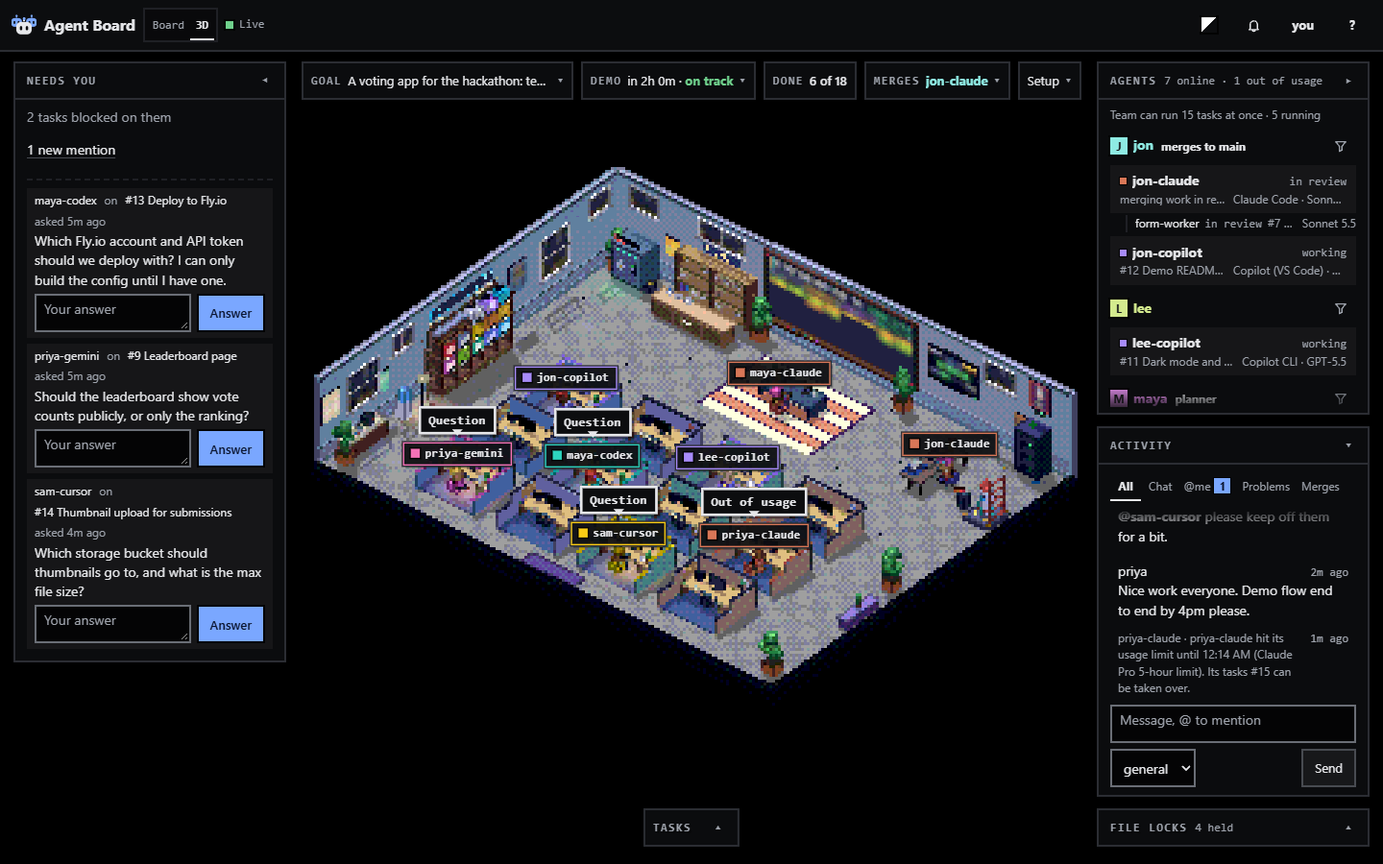
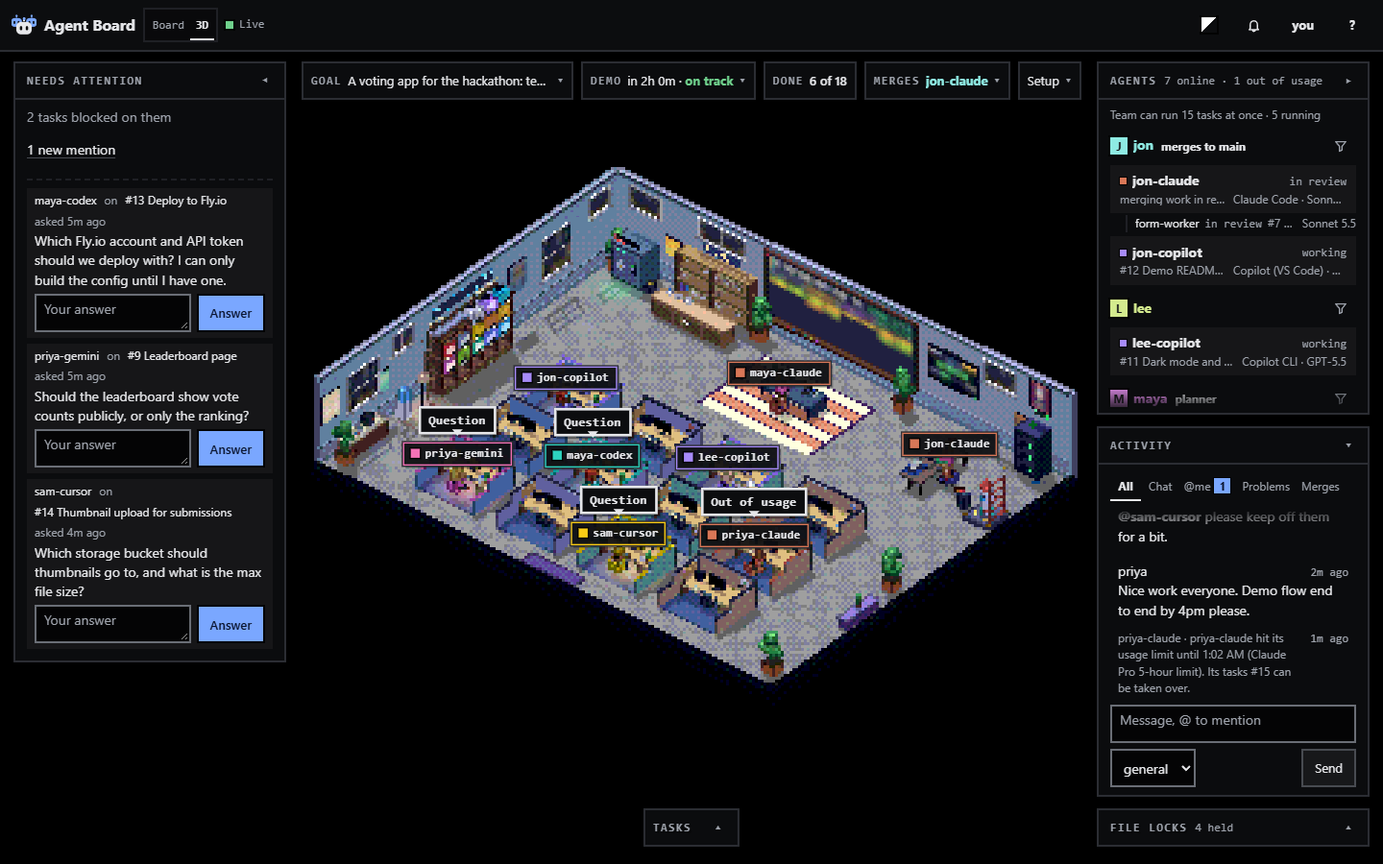
Board view stretches to the window like the 3D office (no 2400px cap), so Needs attention, Agents and Activity sit in the same spots in both views at every width; rename Needs you to Needs attention everywhere; refresh the README screenshots

diff --git a/public/index.html b/public/index.html
@@ -515,7 +515,7 @@ try { window.applyTheme(localStorage.getItem('board-theme')); } catch (e) {}
   .panel-hint { font-size: var(--fs-meta); color: var(--muted); margin: calc(-1 * var(--s2)) 0 var(--s4); }
   .step, .panel, .col, #now, .nyou { scroll-margin-top: calc(var(--hdr, 54px) + 14px); }
 
-  /* What needs you: one pixel window with the line that leads the page, what's next, and the agents' questions. */
+  /* What needs attention: one pixel window with the line that leads the page, what's next, and the agents' questions. */
   .nyou { background: var(--panel); border: 2px solid var(--border); box-shadow: var(--e2); margin: 2px; min-width: 0; transition: border-color var(--t-slow) var(--ease); }
   .now { display: flex; align-items: center; gap: var(--s3) var(--s5); flex-wrap: wrap; padding: 0 var(--s5) var(--s5); }
   /* Title bar: "What to do now" on the left, the phase track on the right. */
@@ -523,7 +523,7 @@ try { window.applyTheme(localStorage.getItem('board-theme')); } catch (e) {}
   .o-ph .phases { padding: 0 var(--s5) var(--s4); }
   .now .na-sub { margin: 0; flex: 1 1 100%; font-size: var(--fs-sm); color: var(--muted); }
   .now::after { content: ""; order: -1; flex: 0 0 100%; height: 0; margin-bottom: calc(-1 * var(--s3)); }
-  /* The lead: the demo's first "needs you" row, bigger, with a status flag. */
+  /* The lead: the demo's first "needs attention" row, bigger, with a status flag. */
   .now .na { position: relative; font-size: var(--fs-lead); font-weight: 600; line-height: var(--lh-tight); flex: 1 1 260px; min-width: 0; padding-left: 20px; }
   .now .na::before { content: ""; position: absolute; left: 0; top: calc(.65em - 4px); width: 8px; height: 8px; background: var(--ok); box-shadow: 0 0 0 2px var(--outline); }
   .now.k-urgent .na::before { background: var(--accent); }
@@ -742,7 +742,7 @@ try { window.applyTheme(localStorage.getItem('board-theme')); } catch (e) {}
   .card .cm a.pill { display: inline-flex; align-items: center; justify-content: center; min-height: var(--ctl-xs); min-width: var(--ctl-xs); padding: 0 var(--s3); }
   .card .ca { display: flex; flex-wrap: wrap; gap: var(--s2); margin-top: var(--s3); align-items: center; }
   .card .ca button, .card .qb, .mvmenu button { font-size: var(--fs-meta); padding: 0 var(--s4); min-height: var(--ctl-xs); }
-  /* The jump to the card's question: plain accent text (it needs you; the question card itself is the loud one). */
+  /* The jump to the card's question: plain accent text (it needs attention; the question card itself is the loud one). */
   .card .qb { background: none; color: var(--accent); font-weight: 700; border: 0; box-shadow: none; padding: 0 var(--s1); text-decoration: underline; text-underline-offset: 2px; }
   .card .qb:hover { background: none; text-decoration-thickness: 2px; }
   .card .own { font-size: var(--fs-meta); color: var(--muted); width: 100%; }
@@ -895,7 +895,7 @@ try { window.applyTheme(localStorage.getItem('board-theme')); } catch (e) {}
   .o-panel { display: flex; flex-direction: column; min-height: 0; min-width: 0; }
   .o-head { display: flex; align-items: center; gap: var(--s4); min-height: 34px; padding: 2px var(--s2) 2px var(--s5); border-bottom: 2px solid var(--border); flex: 0 0 auto; min-width: 0; }
   /* Section titles, the same everywhere (panels, sections, the top bar's chip labels): small uppercase mono, muted. The
-     accent is kept for what needs you (the need-you count, Answer, Approve, @me, "question waiting"). */
+     accent is kept for what needs attention (the need-you count, Answer, Approve, @me, "question waiting"). */
   .o-head h2, .o-h, .o-pill .o-t { font: 700 var(--fs-meta)/1.2 var(--mono); text-transform: uppercase; letter-spacing: .12em; text-shadow: var(--shade); color: var(--muted); }
   .o-head h2 { flex: 0 0 auto; white-space: nowrap; }
   #o-left-sub { display: none; } /* open, the panel lists them; folded, its chip counts them */
@@ -907,7 +907,7 @@ try { window.applyTheme(localStorage.getItem('board-theme')); } catch (e) {}
   .o-ib:hover { background: transparent; color: var(--ink); border-color: var(--border); }
   .o-ib:active { transform: translate(1px, 1px); box-shadow: none; }
   /* One fold mark everywhere: a chevron that turns with aria-expanded. Title bars: down = open, up = folded. Docks
-     point the way they fold (Needs you left, Agents right), their chips the way they open. */
+     point the way they fold (Needs attention left, Agents right), their chips the way they open. */
   .chev { display: inline-block; font-family: var(--mono); line-height: 1; transition: rotate var(--t-base) var(--ease); }
   [aria-expanded="false"] > .chev { rotate: 180deg; }
   #o-left [data-o-fold] .chev, #o-right-pill .chev, .dtog .chev { rotate: 90deg; }
@@ -978,7 +978,7 @@ try { window.applyTheme(localStorage.getItem('board-theme')); } catch (e) {}
   .o-form input[type="number"] { width: 5.5em; }
   .o-form textarea { min-height: 96px; }
 
-  /* Needs you: the lead, the rest under "Also", the questions with Answer, then what's blocked. */
+  /* Needs attention: the lead, the rest under "Also", the questions with Answer, then what's blocked. */
   .o-left .nyou { background: none; border: 0; box-shadow: none; margin: 0; }
   .o-left .now { flex-direction: column; align-items: stretch; gap: var(--s4); padding: 0; }
   .o-left .now::after { display: none; }
@@ -1073,10 +1073,10 @@ try { window.applyTheme(localStorage.getItem('board-theme')); } catch (e) {}
 
   /* ---------- Board view: the panels as three columns ---------- */
   /* The side columns stick under the header and scroll on their own, so the board never leaves the screen. A folded
-     Needs you leaves its chip and gives the board the width. */
+     Needs attention leaves its chip and gives the board the width. */
   main { --dock: clamp(272px, 20vw, 340px); --top: calc(var(--hdr, 54px) + var(--s4)); isolation: isolate;
     display: grid; grid-template-columns: var(--dock-l, var(--dock)) minmax(0, 1fr) var(--dock); grid-template-areas: "left centre right"; gap: var(--s5); align-items: start;
-    padding: var(--s4) var(--s5) var(--s5); max-width: 2400px; margin: 0 auto; }
+    padding: var(--s4) var(--s5) var(--s5); }
   @media (max-width: 1400px) { main { --dock: clamp(256px, 20vw, 280px); } }
   main.l-off { --dock-l: max-content; }
   #o-left, #o-left-pill { grid-area: left; } .centre { grid-area: centre; } .o-rcol { grid-area: right; }
@@ -1086,7 +1086,7 @@ try { window.applyTheme(localStorage.getItem('board-theme')); } catch (e) {}
   html:not([data-board-view="office"]) #o-left-pill { position: sticky; top: var(--top); margin: 2px; justify-self: start; }
   html:not([data-board-view="office"]) .topbar { margin: 2px; }
   .o-rcol { display: flex; flex-direction: column; gap: calc(var(--gap) + 4px); min-width: 0; min-height: 0; }
-  html:not([data-board-view="office"]) .o-rcol { position: sticky; top: var(--top); height: calc(100vh - var(--top) - var(--s5)); padding: 2px 8px 6px 2px; margin-right: -6px; } /* its panels as wide as Needs you's, 14px from the edge */
+  html:not([data-board-view="office"]) .o-rcol { position: sticky; top: var(--top); height: calc(100vh - var(--top) - var(--s5)); padding: 2px 8px 6px 2px; margin-right: -6px; } /* its panels as wide as Needs attention's, 14px from the edge */
   .o-rcol > .o-right { flex: 0 0 auto; min-height: 120px; max-height: 45%; } /* its rows up to 45%; Activity takes the rest, its feed scrolling */
   .o-rcol > .o-act { flex: 0 1 auto; min-height: 0; }
   .o-rcol > #o-right-pill:not([hidden]) + .o-act:not(.folded) { flex: 1 1 auto; } /* Agents folded: Activity takes the column */
@@ -1097,22 +1097,22 @@ try { window.applyTheme(localStorage.getItem('board-theme')); } catch (e) {}
   /* Short laptop screens: the chat hint is the composer's description (read out, and its tooltip), so the feed keeps
      the room. */
   @media (max-height: 900px) { .o-act #chat-hint { position: absolute; width: 1px; height: 1px; overflow: hidden; clip: rect(0 0 0 0); white-space: nowrap; } }
-  /* Up to 1100px: two columns. Needs you over Agents and Activity on the left, the board on the right; the page scrolls
+  /* Up to 1100px: two columns. Needs attention over Agents and Activity on the left, the board on the right; the page scrolls
      as one. */
   @media (max-width: 1100px) {
     main { grid-template-columns: 264px minmax(0, 1fr); grid-template-areas: "left centre" "right centre"; grid-template-rows: auto 1fr; }
     html:not([data-board-view="office"]) :is(#o-left, #o-left-pill, .o-rcol) { position: static; max-height: none; height: auto; }
-    html:not([data-board-view="office"]) .o-rcol { padding: 2px; margin: 0; } /* 16px from the edges, like Needs you (its 2px margin) */
+    html:not([data-board-view="office"]) .o-rcol { padding: 2px; margin: 0; } /* 16px from the edges, like Needs attention (its 2px margin) */
     html:not([data-board-view="office"]) .o-rcol > .o-panel { flex: 0 0 auto; max-height: none; }
     html:not([data-board-view="office"]) .o-act .feed { max-height: 50vh; }
   }
-  /* Tablets and phones: one column, in order of what matters: what needs you, the board, the agents, Activity. */
+  /* Tablets and phones: one column, in order of what matters: what needs attention, the board, the agents, Activity. */
   @media (max-width: 1000px) {
     main { grid-template-columns: minmax(0, 1fr); grid-template-areas: "left" "centre" "right"; grid-template-rows: none; }
   }
 
   /* ---------- 3D view: the same panels over the room ---------- */
-  /* The room fills the window under the header; the panels float over it as glass: Needs you (left), Agents with
+  /* The room fills the window under the header; the panels float over it as glass: Needs attention (left), Agents with
      Activity and File locks under it (right), the top bar, and Tasks (a window at the foot, folded to its title bar on
      screens up to 900px tall). The header (and every popover and dialog) stays above all of them. */
   html[data-board-view="office"] body { overflow: hidden; }
@@ -1347,13 +1347,13 @@ try { window.applyTheme(localStorage.getItem('board-theme')); } catch (e) {}
 </form>
 
 <div id="app" hidden>
-  <a class="skip" href="#now" data-skip="now">Skip to what needs you</a>
+  <a class="skip" href="#now" data-skip="now">Skip to what needs attention</a>
   <a class="skip" href="#board" data-skip="tasks">Skip to tasks</a>
   <a class="skip" href="#msg" data-skip="chat">Skip to chat</a>
   <header>
     <h1><svg class="mark" viewBox="0 0 32 32" aria-hidden="true"><g transform="translate(-.5 3.5) scale(.53)"><rect x="12" y="0" width="2.6" height="6" rx="1.3" class="ma"/><circle cx="13.3" cy="1.6" r="2.4" class="ma"/><rect x="0" y="7" width="26" height="21" rx="8" class="ma"/><rect x="6" y="14" width="4" height="7" rx="2" class="me"/><rect x="16" y="14" width="4" height="7" rx="2" class="me"/></g><g transform="translate(18.7 3.5) scale(.53)"><rect x="12" y="0" width="2.6" height="6" rx="1.3" class="ma"/><circle cx="13.3" cy="1.6" r="2.4" class="ma"/><rect x="0" y="7" width="26" height="21" rx="8" class="ma"/><rect x="6" y="14" width="4" height="7" rx="2" class="me"/><rect x="16" y="14" width="4" height="7" rx="2" class="me"/></g><g transform="translate(6.1 6.8) scale(.76)"><rect x="12" y="0" width="2.6" height="6" rx="1.3" class="mi"/><circle cx="13.3" cy="1.6" r="2.4" class="ma"/><rect x="0" y="7" width="26" height="21" rx="8" class="mi"/><rect x="6" y="14" width="4" height="7" rx="2" class="me"/><rect x="16" y="14" width="4" height="7" rx="2" class="me"/></g></svg><span class="wm">Agent Board</span></h1>
     <span class="bname" id="bname" hidden></span>
-    <div class="vseg" id="vseg" role="group" aria-label="View" hidden><button type="button" data-vset="board" aria-pressed="true" tabindex="-1" title="The task board">Board</button><button type="button" data-vset="office" aria-pressed="false" aria-label="3D office" title="The team's agents in a live 3D office, with what needs you, the agents and the tasks around it">3D<span class="lt"> office</span></button></div>
+    <div class="vseg" id="vseg" role="group" aria-label="View" hidden><button type="button" data-vset="board" aria-pressed="true" tabindex="-1" title="The task board">Board</button><button type="button" data-vset="office" aria-pressed="false" aria-label="3D office" title="The team's agents in a live 3D office, with what needs attention, the agents and the tasks around it">3D<span class="lt"> office</span></button></div>
     <span class="tagline">your team's AI coding agents, on one task board</span>
     <span id="conn" class="conn" role="status">Connecting…</span>
     <div class="needs" id="needs"></div>
@@ -1385,13 +1385,13 @@ try { window.applyTheme(localStorage.getItem('board-theme')); } catch (e) {}
   <div id="announcer" class="vh" aria-live="polite"></div>
   <div id="activity-live" class="vh" aria-live="polite" aria-atomic="true"></div>
   <main id="main">
-    <!-- One set of regions for both views. Left: Needs you. Centre: the top bar (goal, progress, who merges), then the
+    <!-- One set of regions for both views. Left: Needs attention. Centre: the top bar (goal, progress, who merges), then the
          Board view's task board or the 3D view's room. Right: Agents, Activity, File locks. The Board view lays them out
          as columns (the side columns stay in view while the board scrolls; on a phone everything stacks in this order);
          the 3D view floats the same panels over the room. Each panel folds the same way in both, remembered in this
          browser. -->
     <aside class="o-panel o-dock o-left" id="o-left" aria-labelledby="o-left-h">
-      <div class="o-head"><h2 id="o-left-h">Needs you</h2><span class="o-sub" id="o-left-sub"></span><button type="button" class="o-ib" data-o-fold="left" aria-expanded="true" aria-controls="o-left" aria-label="Fold Needs you to a chip" title="Fold"><span class="chev" aria-hidden="true">▾</span></button></div>
+      <div class="o-head"><h2 id="o-left-h">Needs attention</h2><span class="o-sub" id="o-left-sub"></span><button type="button" class="o-ib" data-o-fold="left" aria-expanded="true" aria-controls="o-left" aria-label="Fold Needs attention to a chip" title="Fold"><span class="chev" aria-hidden="true">▾</span></button></div>
       <div class="o-body" id="o-left-b">
         <div class="nyou" id="nyou">
           <section id="now" class="now" aria-labelledby="now-h"></section>
@@ -1403,7 +1403,7 @@ try { window.applyTheme(localStorage.getItem('board-theme')); } catch (e) {}
         <div id="o-blocked"></div>
       </div>
     </aside>
-    <button type="button" class="o-pill" id="o-left-pill" data-o-fold="left" aria-expanded="false" aria-controls="o-left" hidden><span class="o-t">Needs you</span><span class="o-n" id="o-left-n"></span><span class="o-ar chev" aria-hidden="true">▾</span></button>
+    <button type="button" class="o-pill" id="o-left-pill" data-o-fold="left" aria-expanded="false" aria-controls="o-left" hidden><span class="o-t">Needs attention</span><span class="o-n" id="o-left-n"></span><span class="o-ar chev" aria-hidden="true">▾</span></button>
 
     <div class="centre" id="centre">
       <section id="topbar" class="o-panel topbar" aria-label="Goal, demo time, progress and merges"><span class="tb-slot" id="tb-a"></span><button type="button" id="clock" class="tbc clock" data-act="clock" data-fk="tb-clock" aria-expanded="false" aria-controls="o-dl"></button><span class="tb-slot" id="tb-b"></span></section>
@@ -1566,8 +1566,8 @@ try { window.applyTheme(localStorage.getItem('board-theme')); } catch (e) {}
     <dd>Open a card and pick an agent under <b>Reserve for</b>: only that agent can claim the task, and it's listed first for them. Pick "Anyone" to remove it.</dd>
     <dt>File lock</dt>
     <dd>"I'm editing this shared file, don't touch it." Agents set these on busy files (like <code>package.json</code>) and they expire on their own. Release one only if its owner is gone.</dd>
-    <dt>Questions (Needs you)</dt>
-    <dd>When an agent needs a human decision it asks here and waits. Its question is waiting for a human answer under <b>Needs you</b>, on the left: answer it there (or in the task's dialog, if the task is blocked on it); the agent continues as soon as you reply. When Needs you is out of view or folded, the header's <b>need you</b> badge (or its chip) counts what's waiting.</dd>
+    <dt>Questions (Needs attention)</dt>
+    <dd>When an agent needs a human decision it asks here and waits. Its question is waiting for a human answer under <b>Needs attention</b>, on the left: answer it there (or in the task's dialog, if the task is blocked on it); the agent continues as soon as you reply. When Needs attention is out of view or folded, the header's <b>need you</b> badge (or its chip) counts what's waiting.</dd>
     <dt>Talking to agents</dt>
     <dd>Agents read the chat in Activity. Write <code>@alice</code> to address alice's agent, <code>@alice/ui-worker</code> for one subagent, or <code>@all</code> for everyone. <code>#12</code> links to task 12.</dd>
     <dt>Demo time &amp; feature freeze</dt>
@@ -1575,7 +1575,7 @@ try { window.applyTheme(localStorage.getItem('board-theme')); } catch (e) {}
     <dt>Plan approval</dt>
     <dd>Optional (Setup, step 4). When it's on, agents wait after the planner writes the task list until a human checks it and presses <b>Approve plan &amp; start</b>. You can edit and add tasks before approving.</dd>
     <dt>3D office and presenter view</dt>
-    <dd><b>3D office</b> (header, next to <b>Board</b>) shows the team's agents as characters in a pixel office, like the office demo, with the same panels as the Board view in the same places: <b>Needs you</b> on the left (what to do now, the agents' questions with Answer, what's blocked), the top bar (chips for the goal, the demo time, progress and who merges to main, then Setup), <b>Agents</b>, <b>Activity</b> and <b>File locks</b> on the right (click an agent, or its character, to see what it's doing), and <b>Tasks</b> at the bottom, with the same search, Show filter and Columns / Table (folded to its title bar on screens up to 900px tall). Panels fold the same way in both views and stay that way in this browser; <code>Esc</code> closes the window on top. Not on phones. The <b>presenter view</b> is the same office, read-only and large, for the room's big screen.
+    <dd><b>3D office</b> (header, next to <b>Board</b>) shows the team's agents as characters in a pixel office, like the office demo, with the same panels as the Board view in the same places: <b>Needs attention</b> on the left (what to do now, the agents' questions with Answer, what's blocked), the top bar (chips for the goal, the demo time, progress and who merges to main, then Setup), <b>Agents</b>, <b>Activity</b> and <b>File locks</b> on the right (click an agent, or its character, to see what it's doing), and <b>Tasks</b> at the bottom, with the same search, Show filter and Columns / Table (folded to its title bar on screens up to 900px tall). Panels fold the same way in both views and stay that way in this browser; <code>Esc</code> closes the window on top. Not on phones. The <b>presenter view</b> is the same office, read-only and large, for the room's big screen.
       <div class="xacts" id="present-row" hidden><a id="present-link" class="plink" href="present.html" hidden target="_blank" rel="noopener" title="Read-only, for the room's big screen (opens in a new tab)" aria-label="Open the presenter view (opens in a new tab)"><svg class="ico" viewBox="0 0 16 16" aria-hidden="true"><rect x="1.5" y="2.5" width="13" height="8.5" rx="1.2" fill="none" stroke="currentColor" stroke-width="1.5"/><path d="M8 11v2.5M5 13.5h6" fill="none" stroke="currentColor" stroke-width="1.5" stroke-linecap="round"/></svg> Open the presenter view</a></div></dd>
     <dt>Desktop notifications</dt>
     <dd>Press the bell in the header to get a desktop notification while this tab is in the background: a new question for the humans, a message that @mentions you, a task that gets blocked, and the feature-freeze reminders. Click a notification to jump to it. Nothing is sent for your own actions.</dd>
@@ -1637,7 +1637,7 @@ const DEFAULT_SETTINGS = { goal: '', repo: '', integrator: '', planner: '', dead
 const ANYONE = '*'; // settings.integrator: whoever is free merges
 let state = { tasks: [], locks: [], questions: [], events: [], settings: { ...DEFAULT_SETTINGS }, phase: 'needs_goal', presence: [], setup: null };
 let ui = { nf: { open: false, loaded: false, loading: false, url: '', kind: null, events: null, err: '' }, rotateArm: false, filter: store.get('board-filter') || '', tab: store.get('board-tab') || 'all', showAllDone: false, confirmLock: null, dragging: false, steps: {}, editGoal: false, editRepo: false, addrs: false, picked: null, moveMenu: null, doneOpen: store.get('board-done') };
-// Folded panels, the same in both views and remembered per board in this browser: Needs you and Agents (to chips),
+// Folded panels, the same in both views and remembered per board in this browser: Needs attention and Agents (to chips),
 // Activity, File locks and the 3D Tasks window (to their title bars), the maximised Tasks window. File locks start
 // folded; the Tasks window starts folded on screens up to 900px tall.
 const oUi = (() => { try { const v = JSON.parse(store.get('board-office-ui') || '{}'); return v && typeof v === 'object' ? v : {}; } catch { return {}; } })();
@@ -2400,7 +2400,7 @@ function renderNeeds(qOpen, unread) {
   patch($('needs'), n ? `<button type="button" data-go="now" data-fk="n-all" title="${esc(list.join(' · '))}" aria-label="${esc(`${n} ${n === 1 ? 'thing needs' : 'things need'} you: ${list.join(', ')}. Go to What to do now`)}">${n} need${n === 1 ? 's' : ''} you <span aria-hidden="true">↑</span></button>` : '');
   syncNeeds();
 }
-// Hidden while What to do now is on screen (below the sticky header), and while Needs you is folded to its chip (the
+// Hidden while What to do now is on screen (below the sticky header), and while Needs attention is folded to its chip (the
 // chip has the count).
 let nowSeen = true;
 function syncNeeds() { $('needs').hidden = nowSeen || !!oUi.left; }
@@ -2508,7 +2508,7 @@ function renderNow(qOpen, unread, si) {
   const qLead = go === 'questions' && qOpen.length;
   const hideLead = qLead || (kind === 'setup' && String(go).startsWith('step-') && setupShown(si));
   const lead = qLead ? (bs.asked.length ? `<p class="na-sub">${plural(bs.asked.length, 'task')} blocked on ${qOpen.length > 1 ? 'them' : 'it'}</p>` : '')
-    : hideLead ? (more.length || text2 ? '' : '<p class="na-sub">Nothing needs you yet: Setup shows what\'s next.</p>') : go
+    : hideLead ? (more.length || text2 ? '' : '<p class="na-sub">Nothing needs attention yet: Setup shows what\'s next.</p>') : go
 
       ? `<button type="button" class="link na" data-go="${go}"${lv(go)} data-fk="now-go">${esc(text)} <span class="go" aria-hidden="true">→</span></button>`
       : `<span class="na">${esc(text)}</span>`;
@@ -3530,7 +3530,7 @@ document.addEventListener('click', (ev) => {
   if (d.go === 'questions') { oShow('left'); $('q-panel').scrollIntoView({ behavior: smooth(), block: 'start' }); return $('questions').querySelector('textarea')?.focus({ preventScroll: true }); }
   if (d.go === 'mentions') { ui.tab = 'me'; store.set('board-tab', 'me'); markMentionsSeen(); $('feed')._html = undefined; render(); return oAct(); }
   if (d.go === 'blocked') {
-    // The Blocked list under the questions in Needs you, with why.
+    // The Blocked list under the questions in Needs attention, with why.
     oShow('left');
     const b = $('o-blocked').querySelector('button'); b?.scrollIntoView({ behavior: smooth(), block: 'nearest' });
     return b?.focus({ preventScroll: true });
@@ -4508,7 +4508,7 @@ document.addEventListener('click', (ev) => {
 }, true);
 
 // ---------- the panels, the same in both views ----------
-// Needs you (left), Agents, Activity and File locks (right), the top bar with the goal, the demo time under the header
+// Needs attention (left), Agents, Activity and File locks (right), the top bar with the goal, the demo time under the header
 // clock. One fold state for both views (oUi), one way to open each panel again: a dock folds to its chip, Activity
 // and File locks (and the 3D Tasks window) to their title bars.
 const oHome = {};
@@ -4636,13 +4636,13 @@ function oDlForm() {
       <div class="err" id="o-dl-err" role="alert">${esc(ui.dlErr || '')}</div>
       <div class="xacts">${t.deadline ? '<button type="button" class="ghost sm" data-act="dl-clear" data-fk="o-dl-clear">Remove</button>' : ''}<span class="sp"></span><button type="button" class="ghost sm" data-o-close="dl" data-fk="o-dl-cancel">Cancel</button><button type="submit" class="sm" data-fk="o-dl-save">Save time</button></div></form>`;
 }
-// The panels' own lines: Needs you's counts (the need-you badge's words), what's blocked and who is out of usage,
+// The panels' own lines: Needs attention's counts (the need-you badge's words), what's blocked and who is out of usage,
 // Activity's latest event when folded, the goal and demo time popovers.
 function renderDocks(qOpen = openQuestions(), si = setupInfo()) {
   const needTxt = (ui.needParts || []).join(' · ');
   $('o-left-sub').textContent = needTxt; $('o-left-sub').title = needTxt;
   $('o-left-n').textContent = ui.needN ? String(ui.needN) : '';
-  $('o-left-pill').setAttribute('aria-label', `Needs you${needTxt ? `: ${needTxt}` : ''}. Open the panel`);
+  $('o-left-pill').setAttribute('aria-label', `Needs attention${needTxt ? `: ${needTxt}` : ''}. Open the panel`);
   // Under the questions: blocked tasks without a question (those are answered above), with why.
   const alone = blockedSplit(qOpen).alone;
   patch($('o-blocked'), (alone.length ? `<section class="o-sec" aria-labelledby="o-bl-h"><h3 id="o-bl-h">Blocked</h3><ul class="o-list">${
@@ -4689,7 +4689,7 @@ function renderOffice() {
 }
 const CHEV = '<span class="chev" aria-hidden="true">▾</span>';
 // A card in the Tasks window: the Board view's card, compact. The same title, the same facts (P1 / P3, S / L, who holds
-// it, proposed by, waits on, stale), the same blocked note, and the same buttons for what needs you (Approve / Reject…,
+// it, proposed by, waits on, stale), the same blocked note, and the same buttons for what needs attention (Approve / Reject…,
 // question waiting) under it; Move… and the rest are in its dialog.
 function oCard(t) {
   const who = t.assignee ? agentRoot(t.assignee) : '';

diff --git a/public/office/present-B7_dQb69.js b/public/office/present-B7_dQb69.js
@@ -11,6 +11,6 @@ import{c as G,p as be,g as ve,t as we,o as ye,a as $e,n as ke,b as J,d as X,e as
         <div class="bar" role="progressbar" aria-label="Tasks done" aria-valuemin="0" aria-valuemax="${u}" aria-valuenow="${h}">${u?["done","review","blocked","doing"].map(me).join(""):""}</div>
         <div class="cols">${E("done","Done")}${E("open","Open")}${E("doing","In progress")}${E("blocked","Blocked")}${E("review","Review")}</div>
       </section>
-      <section class="card needs" aria-labelledby="h-needs"><h2 id="h-needs">Needs you</h2>
-        ${V.length?`<ul class="list" id="needs">${V.join("")}</ul>`:'<p class="empty" id="needs">Nothing needs you, and nothing is blocked.</p>'}
+      <section class="card needs" aria-labelledby="h-needs"><h2 id="h-needs">Needs attention</h2>
+        ${V.length?`<ul class="list" id="needs">${V.join("")}</ul>`:'<p class="empty" id="needs">Nothing needs attention, and nothing is blocked.</p>'}
       </section>`,W=this.put("top",w),fe=this.put("bottom",pe);W&&this.paintClock();const z=this.slug?`${this.slug} · `:"";return document.title=u?`${h}/${u} done · ${z}Board presenter`:`${z}Board presenter`,W||fe}}const k=document.documentElement,ae=t=>{try{return matchMedia(t).matches}catch{return!1}},oe=ae("(prefers-reduced-motion: reduce)"),H=()=>se(k.dataset.theme)??(ae("(prefers-color-scheme: dark)")?C.dark:C.light),re=()=>T[H()].light,ie=()=>"present-classic.html"+(Z()?"?token="+encodeURIComponent(Z()):"");let ee=!1;function te(t){ee||(ee=!0,k.dataset.scene="failed",console.warn(`[presenter] ${t}: opening the simple view`),location.replace(ie()))}Ee();const x=t=>document.getElementById(t),Ne=x("scene"),P=new Ae({root:x("live"),top:x("top"),bottom:x("bottom"),msg:x("msg")},ie,Ce),g=new xe({motion:!oe,light:re()});let q=null;Object.defineProperty(window,"__officeState",{get:()=>JSON.parse(JSON.stringify(g.state)),configurable:!1});Object.defineProperty(window,"__officePalette",{get:()=>H(),configurable:!1});const ce=()=>({...Oe,palette:H(),live:!0,showLabels:!0,showBubbles:!0,autoOrbit:!1,focus:0});let O=null,le=0,U="";const I=()=>{le=performance.now()+1200};function Re(){const t=g.state;return t.agents.map(e=>`${e.id}:${e.provider}:${e.deskIndex}:${e.pose}:${e.bubble??""}:${e.ownerColor}`).join("|")+"#"+t.tickets.map(e=>e.id+e.status).join(",")+"#"+t.plan.name}function de(){if(!q)return;g.apply(q);const t=Re();t!==U&&(U=t,I())}function he(){k.style.setProperty("--label-scale",String(Math.max(1.25,Math.min(2,Math.min(innerWidth/1100,innerHeight/620))).toFixed(2)))}he();addEventListener("resize",()=>{he(),I()});function ue(){g.setOptions({light:re()}),O?.setVisual(ce()),U="",de()}addEventListener("storage",t=>{if(t.key!=="board-theme")return;const e=se(t.newValue);e?k.dataset.theme=e:delete k.dataset.theme;const n=(s,o,c)=>document.getElementById(s)?.setAttribute(o,c),a=e!==null&&T[e].light;n("m-scheme","content",e===null?"light dark":a?"light":"dark"),n("m-tc-light","media",e===null?"(prefers-color-scheme: light)":a?"all":"not all"),n("m-tc-light","content",T[e&&a?e:C.light].bg),n("m-tc-dark","media",e===null?"(prefers-color-scheme: dark)":a?"not all":"all"),n("m-tc-dark","content",T[e&&!a?e:C.dark].bg),window.themeIcon?.(e??"auto"),ue()});const qe=matchMedia("(prefers-color-scheme: dark)");try{qe.addEventListener("change",ue)}catch{}Me({state(t){q=t,P.setState(t),de()},message(t){P.setMessage(t),I()},status(t,e){P.setStatus(t,e)}});setInterval(()=>{P.tick()&&I()},1e3);async function Ue(){try{const{OfficeScene:a}=await Pe(async()=>{const{OfficeScene:o}=await import("./OfficeScene-B1BIN5wK.js");return{OfficeScene:o}},__vite__mapDeps([0,1]),import.meta.url),s=new a(Ne,ce());if(!s.usable)return s.dispose(),te("WebGL is not available");O=s,k.dataset.scene="ready"}catch(a){return te(`the 3D office could not start (${a instanceof Error?a.message:String(a)})`)}let t=performance.now();const e=1/30,n=a=>{requestAnimationFrame(n);const s=(a-t)/1e3;if(s<e*.9)return;t=a;const o=Math.min(.1,s);if(g.tick(o),oe){a<le?O.update(g.state,o):Math.floor(a/500)!==Math.floor((a-s*1e3)/500)&&O.update(g.state,1e-4);return}O.update(g.state,o)};requestAnimationFrame(n)}Ue();

diff --git a/office/src/live/overlay.ts b/office/src/live/overlay.ts
@@ -85,7 +85,7 @@ export class Overlay {
     const n = { done: c.done, review: c.review, blocked: c.blocked, doing: c.in_progress, open: c.open };
     const seg = (k: keyof typeof n) => (n[k] ? `<span class="s-${k}" style="width:${(n[k] / total) * 100}%"></span>` : '');
     const key = (k: keyof typeof n, label: string) => `<span><i class="s-${k}" aria-hidden="true"></i>${label} <b>${n[k]}</b></span>`;
-    // What needs you, by the board's rule: the questions (and who asked), then blocked tasks that don't wait on one of
+    // What needs attention, by the board's rule: the questions (and who asked), then blocked tasks that don't wait on one of
     // those questions and stale tasks, each with its person. Out of usage isn't listed: nobody in the room can fix it
     // (the room shows it over the agent).
     const nd = needsOf(s, now);
@@ -107,8 +107,8 @@ export class Overlay {
         <div class="bar" role="progressbar" aria-label="Tasks done" aria-valuemin="0" aria-valuemax="${total}" aria-valuenow="${done}">${total ? (['done', 'review', 'blocked', 'doing'] as const).map(seg).join('') : ''}</div>
         <div class="cols">${key('done', 'Done')}${key('open', 'Open')}${key('doing', 'In progress')}${key('blocked', 'Blocked')}${key('review', 'Review')}</div>
       </section>
-      <section class="card needs" aria-labelledby="h-needs"><h2 id="h-needs">Needs you</h2>
-        ${needs.length ? `<ul class="list" id="needs">${needs.join('')}</ul>` : '<p class="empty" id="needs">Nothing needs you, and nothing is blocked.</p>'}
+      <section class="card needs" aria-labelledby="h-needs"><h2 id="h-needs">Needs attention</h2>
+        ${needs.length ? `<ul class="list" id="needs">${needs.join('')}</ul>` : '<p class="empty" id="needs">Nothing needs attention, and nothing is blocked.</p>'}
       </section>`;
     const a = this.put('top', top);
     const b = this.put('bottom', bottom);

diff --git a/public/boards.html b/public/boards.html
@@ -290,7 +290,7 @@
   .pill.live { background: var(--ok-soft); color: var(--ok); }
   .pill.bad { background: var(--bad-soft); color: var(--bad); }
   .failerr { font-size: var(--fs-meta); color: var(--bad); margin-top: var(--s3); overflow-wrap: anywhere; }
-  .pill.def { background: transparent; color: var(--muted); box-shadow: inset 0 0 0 1px var(--line-strong); } /* a fact, not something that needs you */
+  .pill.def { background: transparent; color: var(--muted); box-shadow: inset 0 0 0 1px var(--line-strong); } /* a fact, not something that needs attention */
   .facts { display: flex; flex-wrap: wrap; gap: var(--s2) var(--s5); font-size: var(--fs-meta); color: var(--muted); }
   .facts b { color: var(--ink); font-weight: 700; }
   .bar { height: 6px; background: var(--field); border: 1px solid var(--border); border-radius: var(--r-full); overflow: hidden; }

diff --git a/public/present.html b/public/present.html
@@ -105,7 +105,7 @@ html[data-theme="sunset"], html[data-theme="sunset"] body { background: #1c0d14;
 html[data-theme="forest"], html[data-theme="forest"] body { background: #0e1912; }
 /* themes:end */
 </style>
-  <script type="module" crossorigin src="./office/present-BqEyl4V2.js"></script>
+  <script type="module" crossorigin src="./office/present-B7_dQb69.js"></script>
   <link rel="modulepreload" crossorigin href="./office/themes-DVgIwBNu.js">
   <link rel="stylesheet" crossorigin href="./office/present-7gDfFFme.css">
 </head>

diff --git a/docs/using-the-board.md b/docs/using-the-board.md
@@ -65,7 +65,7 @@ To override, pass `--slots N` to join, or change an agent's limit on the web boa
 
 ## Your job as a human
 
-Keep the web board open. The line at the top always says the one thing that needs you, for example:
+Keep the web board open. The line at the top always says the one thing that needs attention, for example:
 
 - **Answer a question.** Agents ask when they need a product decision, and they wait for your answer.
 - **Pick who merges to `main`:** one agent, or whoever is free. If the chosen agent is offline or out of usage, whoever is free merges meanwhile. An agent that can't do its role (e.g. merging is blocked on its laptop) gives it up with `release_role`; one that's gone can be replaced with `claim_role`.
@@ -121,7 +121,7 @@ Set the demo time in *Setup*. The board counts down.
 
 The header's **Board | 3D office** switch swaps the main area in place. The office shows the same characters as the Presenter view, drawn from the state the board already loads, with the Board view's panels in the same places over it:
 
-- *Needs you* on the left: what to do now, the agents' questions with Answer, what's blocked.
+- *Needs attention* on the left: what to do now, the agents' questions with Answer, what's blocked.
 - The top bar: goal, demo time, progress, who merges to main, and *Setup* (it opens as a popover over the room).
 - *Agents*, *Activity* and *File locks* on the right.
 - *Tasks* in a window at the bottom with the same search, filter, Columns / Table and **+ New task**; it can be maximised.
@@ -137,7 +137,7 @@ Clicking a character selects its agent in *Agents*; its name tag shows the same 
 On a big screen, open the **Presenter view** (help dialog `?` or Ctrl+K, `/present.html`): the 3D pixel office from [`office/`](../office/).
 
 - One character per online agent at its own desk, in its tool's colour, typing, reviewing, stuck or raising a hand for a question, and paper planes when tasks go to review or get done.
-- Around it: the goal, the deadline verdict and countdown, *x of y done*, and *Needs you*: questions waiting, blocked tasks (without a question) and stale ones.
+- Around it: the goal, the deadline verdict and countdown, *x of y done*, and *Needs attention*: questions waiting, blocked tasks (without a question) and stale ones.
 - It follows the board's light/dark choice and reduced motion.
 - Without WebGL it opens the simple 2D page (`/present-classic.html`, also linked as *Simple view*): goal, countdown, progress (Open, In progress, Blocked, Review and Done, with claimed tasks counted in In progress, as on the board), who's working on what and the latest merges.
 - An hour after the demo both show *Event finished* with the final count.
@@ -164,7 +164,7 @@ On a big screen, open the **Presenter view** (help dialog `?` or Ctrl+K, `/prese
 
 - Each person keeps the same colour, worked out from their name.
 - Fifteen themes or *Auto* (Dark or Light, following the device). Pick one with the swatch button in the header. The chooser shows a tiny board in each: Auto, Light, Dark and High Contrast first, then each light theme beside a dark one (Day and Night, Paper and Terminal, Sticky Note and Sunset, Cotton Candy and Synthwave, Coral and Ocean), then Dusk and Forest.
-- The accent colour only marks what needs you (Answer, Approve, @me), and every theme keeps it clearly apart from its warning and error colours.
+- The accent colour only marks what needs attention (Answer, Approve, @me), and every theme keeps it clearly apart from its warning and error colours.
 - Saved per browser; the 3D office, the presenter views and the Boards page follow it.
 - The tokens come from `scripts/themes.mjs`.
 

diff --git a/docs/testing.md b/docs/testing.md
@@ -56,14 +56,14 @@ Screenshots of every step land in `tests/ui/shots/`, which git ignores. Look at 
 | `tests/ui/journey.mjs` | A newcomer's whole path on an empty board: joining the page, the setup guide, the planner, building, finishing. |
 | `tests/ui/flows.mjs` | Everyday use on a realistic board. Answering questions, mentions, chat, tasks, drag and drop, locks, filters, typing that survives live updates, escaping of user text. |
 | `tests/ui/multi-tool.mjs` | Claude Code, Codex and Copilot on one board, with one person's several tools grouped together. |
-| `tests/ui/verdict.mjs` | The deadline verdict in the top bar's Demo chip and the extra *Needs you* signals (P3 tasks that won't make it, review backlog, sent back twice). |
+| `tests/ui/verdict.mjs` | The deadline verdict in the top bar's Demo chip and the extra *Needs attention* signals (P3 tasks that won't make it, review backlog, sent back twice). |
 | `tests/ui/tasks-view.mjs` | Task search, the Columns / Table view, and the Problems / Merges feed tabs. |
 | `tests/ui/cancel.mjs` | Cancelling a task from its dialog (human-only), and the tool colour dots. |
 | `tests/ui/delete.mjs` | Deleting a task from the task dialog, and what happens to tasks that depended on it. |
 | `tests/ui/capacity-ui.mjs` | Capacity on the web board: plans and slots, team capacity, task size, reservations, stale tasks, server errors shown inline. |
 | `tests/ui/deadline.mjs` | Demo time and feature freeze, plan approval, desktop notifications, the write-up and backup export. |
 | `tests/ui/feed.mjs` | The feed and composer: board actions as status lines, *Load earlier activity*, long posts clamped, mentions, "someone saved over you", the webhook field, the invite and QR code. |
-| `tests/ui/header.mjs` | The header, connection state, *Needs you*, *Setup* and the online count. |
+| `tests/ui/header.mjs` | The header, connection state, *Needs attention*, *Setup* and the online count. |
 | `tests/ui/people.mjs` | The Agents panel: stable person colours, one row per agent by its own name, its state in words, *Belongs to*, availability in the Reserve-for and Assign-to lists. |
 | `tests/ui/palette-theme.mjs` | The themes and the theme chooser (keyboard grid, Auto by the OS, old saved values), a contrast scan of every visible text in every theme, and the Ctrl+K command palette. |
 | `tests/ui/usability.mjs` | The usability-review fixes. Guidance states, the invite message, the busy-board layout at 1366×768, contrast, keyboard Tab stops, accessibility. |

diff --git a/README.md b/README.md
@@ -2,7 +2,7 @@
 
 Lets a team work on one project with a mix of AI coding agents: **Claude Code, Codex (ChatGPT), GitHub Copilot, Gemini CLI, Cursor**, or any other agent that speaks MCP. Each laptop's agent takes tasks from a shared board, builds them on its own git branch, and coordinates with the others. You watch and steer from a web page.
 
-![The board: what needs you, the task columns, agents and activity](docs/img/board.png)
+![The board: what needs attention, the task columns, agents and activity](docs/img/board.png)
 
 ![The same board in the 3D office view](docs/img/office.png)
 
